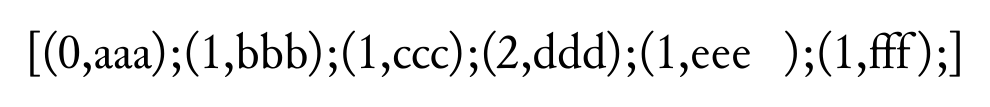
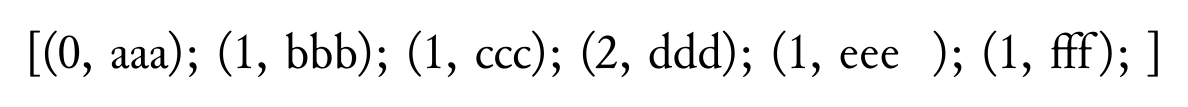
publish

Changed region(s): [[0.0, 0.2804, 0.7576, 0.729], [0.7879, 0.2804, 1.0, 0.729]]

diff --git a/docs/develop-regexp.html b/docs/develop-regexp.html
@@ -63,7 +63,7 @@
 <p><code>regexp-of-string : string -&gt; regexp</code> プリミティブを使うと正規表現型の値を作ることができます。使える正規表現の構文は SATySFi version 0.0.3 においては OCaml の <code>Str.regexp</code> で使えるものと同じです。<a href="https://caml.inria.fr/pub/docs/manual-ocaml/libref/Str.html">こちらをご覧ください</a>。</p>
 <div class="satysfi-code">
 <p><strong>コード例</strong></p>
-<pre class="satysfi"><code>let re = regexp-of-string `nekketsu*`
+<pre class="satysfi"><code>let pat = regexp-of-string `nekketsu*`
 </code></pre>
 </div>
 <h2 id="マッチ判定">マッチ判定</h2>
@@ -83,12 +83,12 @@ let _ = string-match pat `nekketuuuu`  % --&gt; false
   let pat = regexp-of-string `,` in
   let show-result iss =
     let string-of-is (i, s) =
-      `(` ^ (arabic i) ^ `, ` ^ s ^ `)`
+      `(` ^ (arabic i) ^ `, `# ^ s ^ `)`
     in
     let-rec aux iss =
       match iss with
       | [] -&gt; ` `
-      | is :: iss -&gt; (string-of-is is) ^ `; ` ^ (aux iss)
+      | is :: iss -&gt; (string-of-is is) ^ `; `# ^ (aux iss)
     in
     embed-string (`[` ^ (aux iss) ^ `]`)
   in
